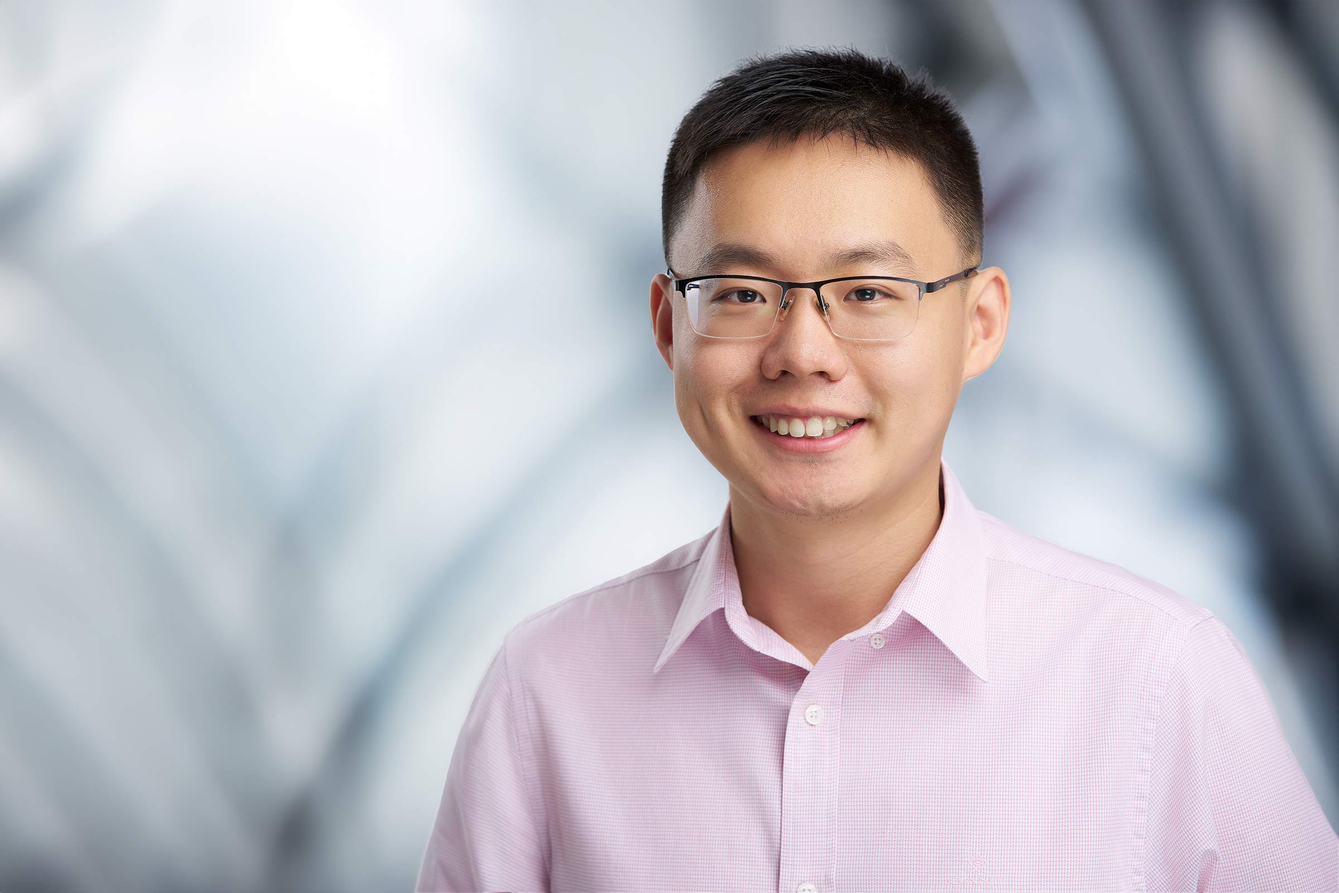
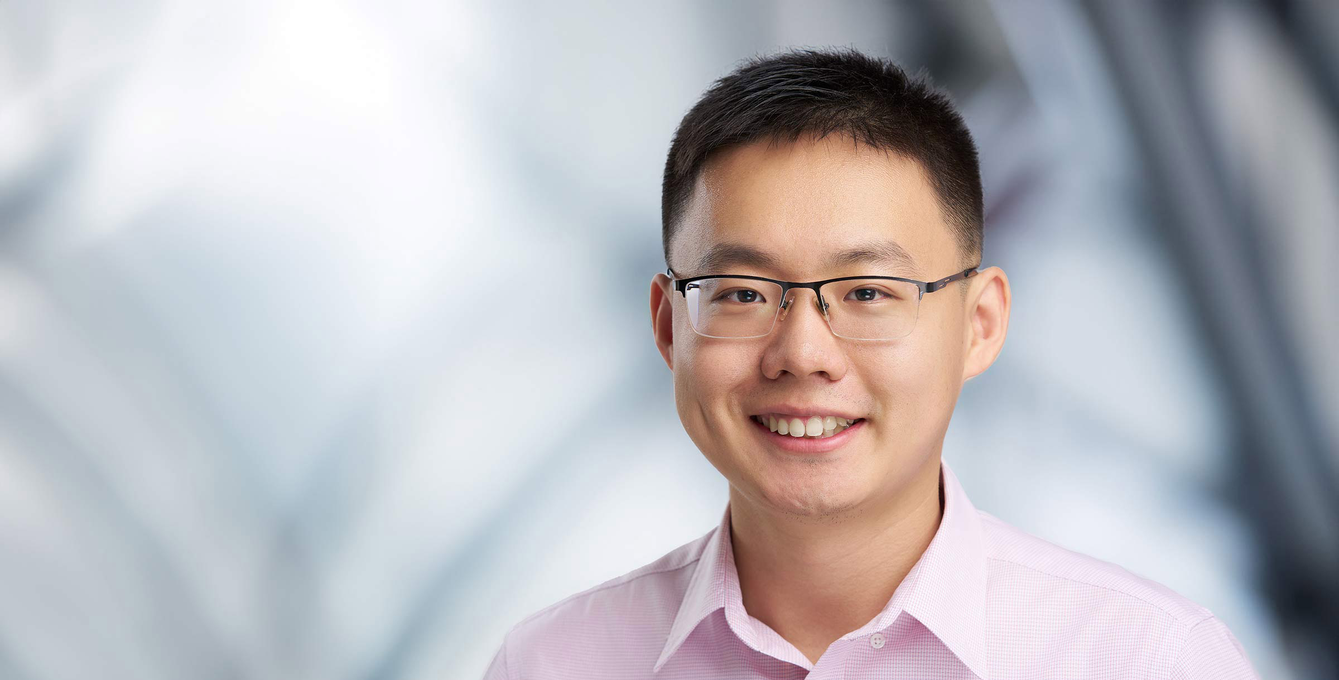
added images to news page. Corrected images proportions.

diff --git a/src/assets/articlesHighlights.js b/src/assets/articlesHighlights.js
@@ -38,8 +38,8 @@ export const articlesHighlights = [
     bubbleTextOne: 'Elaheh',
     bubbleTextTwo: 'Ahmadi',
     bubbleTextThree: '',
-    articleHeadlineOne:'NEW FACULTY',
-    articleHeadlineTwo:'Elaheh Ahmadi\'s Solutions on Ultrawide Bandgap Materials and Devices',
+    articleHeadlineOne:'NEW FACULTY: Associate Professor Elaheh Ahmadi',
+    articleHeadlineTwo:'Solutions on Ultrawide Bandgap Materials and Devices',
     articleHeadlineThree: '',
     articleCallout1: '',
     articleCallout2: '',
@@ -64,14 +64,14 @@ export const articlesHighlights = [
     articleCaption1: 'Elaheh Ahmadi’s research GaN-Ga2O3 bonded-interface. SEM images of GaN and AlGaN nanowires.',
     articleCaption2: '',
     articleCaption3: '',
-    textCopy: '    <p style="text-indent:0"><span class="first-letter">I</span>=n the era of internet of things, and autonomous electric cars, highly efficient, reliable, low latency communication has become more important than ever. At the same time, climate change, which is in part due to technological advances, is an existential threat to humanity which calls for efficient, low-waste electronics and renewable energies. The goal of my research group at the University of California Los Angeles is to contribute to finding solutions to these challenges by working on (ultra)wide bandgap materials and devices.<p></p>Our group conducts research at the intersections of traditional research areas; or in the language of a materials scientist at “the grain boundaries”. In a vertically integrated manner, we do everything from structural, optical, and electrical characterization of materials epitaxially grown in our laboratory as well as fabrication and testing of devices. We do collaborate with groups in different disciplines, including Materials science, applied physics, circuits and systems.<p></p>Ahmadi received her B.S. and M.S. degrees, both from Sharif University of Technology in Tehran, Iran, in 2008 and 2010 respectively. She then joined UCSB in 2010 to pursue her PhD, focusing on epitaxial growth and characterization of GaN-based electronic devices. In 2015, she commenced her postdoctoral research, specializing in epitaxial growth and characterization of Ga2O3 devices. In July 2023, she joined the Department of Electrical and Computer Engineering at the UCLA as an Associate Professor. Prior to this, she served as an Assistant Professor at the University of Michigan, where she established and currently leads the Wide Bandgap Materials and Electronics (WBME) lab. Ahmadi has been honored with several awards, including the AFOSR YIP, ONR YIP, NSF CAREER, and DARPA Young Faculty awards, as well as the UM EECS department Outstanding Achievement Award, and the ISCS Young Scientist Award.</p>'
+    textCopy: '    <p style="text-indent:0"><span class="first-letter">I</span>n the era of internet of things, and autonomous electric cars, highly efficient, reliable, low latency communication has become more important than ever. At the same time, climate change, which is in part due to technological advances, is an existential threat to humanity which calls for efficient, low-waste electronics and renewable energies. The goal of my research group at the University of California Los Angeles is to contribute to finding solutions to these challenges by working on (ultra)wide bandgap materials and devices.<p></p>Our group conducts research at the intersections of traditional research areas; or in the language of a materials scientist at “the grain boundaries”. In a vertically integrated manner, we do everything from structural, optical, and electrical characterization of materials epitaxially grown in our laboratory as well as fabrication and testing of devices. We do collaborate with groups in different disciplines, including Materials science, applied physics, circuits and systems.<p></p>Ahmadi received her B.S. and M.S. degrees, both from Sharif University of Technology in Tehran, Iran, in 2008 and 2010 respectively. She then joined UCSB in 2010 to pursue her PhD, focusing on epitaxial growth and characterization of GaN-based electronic devices. In 2015, she commenced her postdoctoral research, specializing in epitaxial growth and characterization of Ga2O3 devices. In July 2023, she joined the Department of Electrical and Computer Engineering at the UCLA as an Associate Professor. Prior to this, she served as an Assistant Professor at the University of Michigan, where she established and currently leads the Wide Bandgap Materials and Electronics (WBME) lab. Ahmadi has been honored with several awards, including the AFOSR YIP, ONR YIP, NSF CAREER, and DARPA Young Faculty awards, as well as the UM EECS department Outstanding Achievement Award, and the ISCS Young Scientist Award.</p>'
   },
   {
     articleId: 'ianoroberts',
     bubbleTextOne: 'Ian ',
     bubbleTextTwo: 'Roberts',
     bubbleTextThree: '',
-    articleHeadlineOne:'NEW FACULTY',
+    articleHeadlineOne:'NEW FACULTY: Assistant Professor Ian Roberts',
     articleHeadlineTwo:'Underlying Technologies and Techniques for Future Wireless Networks',
     articleHeadlineThree: '',
     articleCallout1: '',
@@ -92,7 +92,7 @@ export const articlesHighlights = [
     articleImageAltTextMain: '',
     articleImageProf: '/2022-2023/img/ian-roberts-portrait.jpg',
     articleImageAltTextProf: 'UCLA ECE Faculty Ian Roberts portrait',
-    articleImageCred: '',
+    articleImageCred: 'photo by Nick Fancher',
     articleAuthor: '',
     articleCaption1: '',
     articleCaption2: '',
@@ -104,7 +104,7 @@ export const articlesHighlights = [
     bubbleTextOne: 'Xiaofan',
     bubbleTextTwo: 'Cui',
     bubbleTextThree: '',
-    articleHeadlineOne:'NEW FACULTY',
+    articleHeadlineOne:'NEW FACULTY: Assistant Professor Xiofan Cui',
     articleHeadlineTwo:'Bridging Energy Systems by Innovating Modeling Frameworks',
     articleHeadlineThree: '',
     articleCallout1: '',
@@ -121,13 +121,13 @@ export const articlesHighlights = [
     articleImageAltText4: '',
     articleImageAltText5: '',
     articleImageAltText6: '',
-    articleImageMain: '../../src/assets/images/hex-computer-grid-steve-johnson.jpg',
+    articleImageMain: '/2022-2023/img/hex-computer-grid-steve-johnson.jpg',
     articleImageAltTextMain: '',
     articleImageProf: '/2022-2023/img/Xiaofan-Cui-portrait.jpg',
-    articleImageAltTextProf: 'UCLA ECE Faculty Ian Roberts portrait',
-    articleImageCred: 'photo by Steve Johnson',
+    articleImageAltTextProf: 'UCLA ECE Faculty Xiofan Cui portrait',
+    articleImageCred: 'llustration by Steve Johnson',
     articleAuthor: '',
-    articleCaption1: '',
+    articleCaption1: 'ECE Assistant Professor Xiofan Cui.',
     articleCaption2: '',
     articleCaption3: '',
     textCopy: '<p style="text-indent:0"><span class="first-letter">M</span>odern power systems are being transformed by clean-energy technologies. In this ongoing energy revolution, power electronics are evolving from being edge devices to becoming the “centrex” of the energy internet. Due to the high controllability, speed, and power density of power electronics, future energy systems can be more heterogeneous in form, more agile in actuation, larger in scale, and more distributed in function. The ultimate energy system should deliver the right energy to the right place at the right time. However, the cost and speed limitations of power converters restrict the flexibility and bandwidth of energy transfer. Moreover, most of the current models, controls, and designs do not align with each other. Models are either too simple to capture the underlying physics or too complicated to be utilized for design, while rigorous control laws result in overly conservative control performance. Much of the practical hardware is rule-based and semi-empirical.</p><p>   My research group focuses on the algorithm and hardware that transform power-electronics-based energy systems, from those as small as power conversion circuits to those as large as interconnected microgrids, from those as fast as electromagnetic transients to those as slow as electrochemical dynamics. Currently, we are working on projects including high-speed high-frequency power converters for information & data systems, power management of second-life battery energy storage systems, nonlinear control and transient stability of microgrids, and distributed energy generation & integration. Our ultimate research goal is to bridge the fundamental theory and emerging applications of power-electronics-dominated energy systems by innovating control-aware modeling frameworks, high-performance hardware validations, provably-correct control policies, and physics-informed learning schemes. </p><p>   Xiaofan Cui is an Assistant Professor of Electrical and Computer Engineering at the University of California, Los Angeles. He was a Postdoctoral Fellow at Stanford University, and prior to that, he served as a senior power electronics engineer at Tesla Inc. Dr. Cui earned a B.E. degree in Electrical Engineering and a B.S. degree in Economics from Tsinghua University, Beijing, China, in 2016. He obtained an M.S. degree in Mathematics and a Ph.D. degree in Electrical and Computer Engineering from the University of Michigan, Ann Arbor, MI, USA, in 2021 and 2022, respectively. In 2021, he was a Research Intern with the National Renewable Energy Laboratory (NREL). His research interests encompass the modeling, control, and design of high-performance power electronics for energy systems.  Professor Cui research has received recognition from universities, governments, and industries. His work has been published in top-tier journals and conferences in power electronics, batteries, power systems, and control. He also holds several service positions in the IEEE Power Electronics Society, Industry Applications Society, and American Society of Mechanical Engineers. </p>'
@@ -135,15 +135,15 @@ export const articlesHighlights = [
   {
     articleId: 'frankchangmedal',
     bubbleTextOne: 'M.C. Frank',
-    bubbleTextTwo: 'Chang ',
+    bubbleTextTwo: 'Chang',
     bubbleTextThree: '',
-    articleHeadlineOne:'M.C. Frank Chang',
-    articleHeadlineTwo:'Awarded James Clerk Maxwell Medal',
-    articleHeadlineThree: '',
+    articleHeadlineOne:'IEEE Recognitions',
+    articleHeadlineTwo:'M.C. Frank Chang Awarded James Clerk Maxwell Medal',
+    articleHeadlineThree: 'Ingrid Verbauwhede received IEEE Donald O. Pederson Award in Solid-State Circuits',
     articleCallout1: '',
     articleCallout2: '',
-    articleImage1: 'https://source.unsplash.com/kBUfvkbFIoE/1500x1500',
-    articleImage2:'https://source.unsplash.com/2r5adxul49E/1500x1500',
+    articleImage1: '/2022-2023/img/IEEE-RSE-James-Clerk-Maxwell-Medal.jpg',
+    articleImage2:'/2022-2023/img/IEEE_Donald_O._Pederson_Award_in_Solid-State_Circuits.jpg',
     articleImage3: '',
     articleImage4:'',
     articleImage5:'',
@@ -154,29 +154,29 @@ export const articlesHighlights = [
     articleImageAltText4: '',
     articleImageAltText5: '',
     articleImageAltText6: '',
-    articleImageMain: '../../src/assets/images/semiconductors.jpg',
+    articleImageMain: '/2022-2023/img/Maxwell-statue.jpg',
     articleImageAltTextMain: '',
-    articleImageProf: 'https://source.unsplash.com/67L18R4tW_w/1500x1500',
+    articleImageProf: '/img/Frank_Chang.jpg',
     articleImageAltTextProf: '',
     articleImageCred: '',
     articleAuthor: '',
-    articleCaption1: 'Awarded James Clerk Maxwell Medal',
-    articleCaption2: '',
+    articleCaption1: 'M.C. Frank Chang Awarded James Clerk Maxwell Medal',
+    articleCaption2: 'Adjunct Professor Ingrid Verbauwhede awarded IEEE Donald O. Pederson Award in Solid-State Circuits',
     articleCaption3: '',
-    textCopy: '  <p style="text-indent:0"><span class="first-letter">L</span>M.C. Frank Chang, a distinguished professor and the Wintek Chair in Electrical Engineering at the UCLA Samueli School of Engineering, has been awarded the 2023 James Clerk Maxwell Medal by the Institute of Electrical and Electronics Engineers and the Royal Society of Edinburgh (IEEE/RSE). The international award, which was announced last week, recognizes Chang’s “contributions to heterojunction device technology and CMOS [complementary metal–oxide–semiconductor] System-on-Chip realizations with unprecedented reconfigurability and bandwidth.” </p><p>Since joining UCLA in 1997, Chang has led the High Speed Electronics Laboratory with research focused on high-speed semiconductor devices and integrated circuits for digital, analog, microwave, millimeter-wave and terahertz system-on-chip applications. He has pioneered new methodologies to design reliable heterojunction devices, including digital-controlled artificial dielectric transmissions for reconfigurable software-defined, multi-band/mode radios and radars for extended operation bands and resolutions. Chang’s work has also had a major impact on mobile phones, with the majority of smartphones using the heterojunction bipolar transistor technology he developed to meet the required power and efficiency specifications.</p><p>Earlier this year, Chang was selected as a member of the European Academy of Sciences and Arts in the category of technical and environmental sciences. He is also a member of the National Academy of Engineering, Academia Sinica and the National Academy of Inventors. In 2017, the Institution of Engineering and Technology presented Chang with the J.J. Thomson Medal for Electronics.</p><p>Chang served as chair of the Electrical and Computer Engineering Department from 2010 to 2015 before taking a leave to head the National Chiao Tung University in Taiwan as president from 2015 to 2019. Prior to joining UCLA, he worked at the Rockwell International Science Center as the assistant director and department manager of the High Speed Electronics Laboratory. It was at Rockwell where he pioneered the class of heterojunction bipolar transistors and field effect transistors for smartphone front-end module implementations.</p><p>In addition to the James Clerk Maxwell Medal, the 2023 IEEE recognition also included the Donald O. Pederson Award in Solid-State Circuits that went to Ingrid Verbauwhede, an adjunct professor in electrical and computer engineering at UCLA Samueli. Verbauwhede was selected for her “pioneering contributions to energy-efficient and high-performance secure integrated circuits and systems.” She is currently a professor at Katholieke Universiteit Leuven in Belgium. </p> '
+    textCopy: '  <p style="text-indent:0"><span class="first-letter">L</span>M.C. Frank Chang,  distinguished professor and the Wintek Chair in Electrical Engineering, has been awarded the 2023 James Clerk Maxwell Medal by the Institute of Electrical and Electronics Engineers and the Royal Society of Edinburgh (IEEE/RSE). The international award, which was announced last week, recognizes Chang’s “contributions to heterojunction device technology and CMOS [complementary metal–oxide–semiconductor] System-on-Chip realizations with unprecedented reconfigurability and bandwidth.” </p><p>Since joining UCLA in 1997, Chang has led the High Speed Electronics Laboratory with research focused on high-speed semiconductor devices and integrated circuits for digital, analog, microwave, millimeter-wave and terahertz system-on-chip applications. He has pioneered new methodologies to design reliable heterojunction devices, including digital-controlled artificial dielectric transmissions for reconfigurable software-defined, multi-band/mode radios and radars for extended operation bands and resolutions. Chang’s work has also had a major impact on mobile phones, with the majority of smartphones using the heterojunction bipolar transistor technology he developed to meet the required power and efficiency specifications.</p><p>Earlier this year, Chang was selected as a member of the European Academy of Sciences and Arts in the category of technical and environmental sciences. He is also a member of the National Academy of Engineering, Academia Sinica and the National Academy of Inventors. In 2017, the Institution of Engineering and Technology presented Chang with the J.J. Thomson Medal for Electronics.</p><p>Chang served as chair of the Electrical and Computer Engineering Department from 2010 to 2015 before taking a leave to head the National Chiao Tung University in Taiwan as president from 2015 to 2019. Prior to joining UCLA, he worked at the Rockwell International Science Center as the assistant director and department manager of the High Speed Electronics Laboratory. It was at Rockwell where he pioneered the class of heterojunction bipolar transistors and field effect transistors for smartphone front-end module implementations.</p><p>In addition to the James Clerk Maxwell Medal, the 2023 IEEE recognition also included the Donald O. Pederson Award in Solid-State Circuits that went to Ingrid Verbauwhede, adjunct professor in electrical and computer engineering at UCLA Samueli. Verbauwhede was selected for her “pioneering contributions to energy-efficient and high-performance secure integrated circuits and systems.” She is currently a professor at Katholieke Universiteit Leuven in Belgium. </p> '
   },
   {
     articleId: 'kangwanginventors',
     bubbleTextOne: 'Kang',
     bubbleTextTwo: 'Wang',
     bubbleTextThree: '',
-    articleHeadlineOne:'Kang Wang',
-    articleHeadlineTwo:'Named National Academy of Inventors Fellow',
+    articleHeadlineOne:'Distinguished Professor ',
+    articleHeadlineTwo:'Kang Wang Named National Academy of Inventors Fellow',
     articleHeadlineThree: '',
     articleCallout1: '',
     articleCallout2: '',
     articleImage1: '/2022-2023/img/kang-wang-nai.png',
-    articleImage2:'https://source.unsplash.com/2r5adxul49E/1500x1500',
+    articleImage2:'/2022-2023/img/CQSE-DRL-logos.png',
     articleImage3: '',
     articleImage4:'',
     articleImage5:'',
@@ -187,16 +187,16 @@ export const articlesHighlights = [
     articleImageAltText4: '',
     articleImageAltText5: '',
     articleImageAltText6: '',
-    articleImageMain: 'https://source.unsplash.com/Kj2SaNHG-hg/1500x1500',
+    articleImageMain: '/2022-2023/img/microprocessor-zhvgeirSXgU.jpg',
     articleImageAltTextMain: '',
-    articleImageProf: 'kang-wang-nai.png',
+    articleImageProf: '/2022-2023/img/wang.jpg',
     articleImageAltTextProf: '',
-    articleImageCred: '',
-    articleAuthor: '',
-    articleCaption1: 'National Academy of Inventors elected Professor Kang Wang',
+    articleImageCred: 'photo by Getty Images.  ',
+    articleAuthor: ' Riley de Jong contributed to this story.',
+    articleCaption1: 'National Academy of Inventors elected Professor Kang Wang. He leads the Device Research Laboratory and co-directs the Center of Quantum Science and Engineering at UCLA',
     articleCaption2: '',
     articleCaption3: '',
-    textCopy: '  <p style="text-indent:0"><span class="first-letter">L</span>Kang Wang, a distinguished professor of electrical and computer engineering at the UCLA Samueli School of Engineering, has been named a National Academy of Inventors (NAI) fellow, the highest professional distinction awarded to academic inventors.</p> <p> The academy recognizes global researchers who have “demonstrated a spirit of innovation in creating or facilitating outstanding inventions that have made a tangible impact on quality of life, economic development and the welfare of society.” Wang has been selected for the dozens of inventions he has patented over the course of his career.</p> <p> A UCLA faculty member since 1979, Wang holds the Raytheon Chair in Electrical Engineering, leads the Device Research Laboratory and co-directs the Center of Quantum Science and Engineering. His primary research focuses on quantum matters, information and technologies, semiconductors, and nanoelectronics and spintronics. He also holds faculty appointments in materials science and engineering, as well as physics and astronomy.</p> <p>  Wang has received many international accolades for his research, including the 2018 Magnetism Award and Néel Medal from the International Union of Pure and Applied Physics, and the 2017 J.J. Ebers Award from the Institute of Electrical and Electronics Engineering (IEEE) Electron Devices Society. He is a fellow of the American Physical Society and IEEE, a Guggenheim Fellow and a member of Academia Sinica in Taiwan.</p> <p> The National Academy of Inventors includes fellows from more than 250 academic institutions around the world, all of whom have earned their fellowships through years of dedication to their research. The 2022 class of 169 new fellows from 110 research universities and governmental and nonprofit research institutes worldwide will be inducted June 27 at the 12th annual meeting of the National Academy of Inventors in Washington, D.C.</p> <p>   Riley de Jong contributed to this story.  </p> '
+    textCopy: '  <p style="text-indent:0"><span class="first-letter">D</span>istinguisehd Professort Kang Wang has been named a National Academy of Inventors (NAI) fellow, the highest professional distinction awarded to academic inventors. The academy recognizes global researchers who have “demonstrated a spirit of innovation in creating or facilitating outstanding inventions that have made a tangible impact on quality of life, economic development and the welfare of society.” Wang has been selected for the dozens of inventions he has patented over the course of his career.</p> <p> A UCLA faculty member since 1979, professor Wang holds the Raytheon Chair in Electrical Engineering, leads the Device Research Laboratory and co-directs the Center of Quantum Science and Engineering. His primary research focuses on quantum matters, information and technologies, semiconductors, and nanoelectronics and spintronics. He also holds faculty appointments in materials science and engineering, as well as physics and astronomy. Professor Kang Wang has received many international accolades for his research, including the 2018 Magnetism Award and Néel Medal from the International Union of Pure and Applied Physics, and the 2017 J.J. Ebers Award from the Institute of Electrical and Electronics Engineering (IEEE) Electron Devices Society. He is a fellow of the American Physical Society and IEEE, a Guggenheim Fellow and a member of Academia Sinica in Taiwan.</p> <p> The National Academy of Inventors includes fellows from more than 250 academic institutions around the world, all of whom have earned their fellowships through years of dedication to their research. The 2022 class of 169 new fellows from 110 research universities and governmental and nonprofit research institutes worldwide will be inducted June 27 at the 12th annual meeting of the National Academy of Inventors in Washington, D.C.</p> '
   },
   {
     articleId: 'kadambiaward',
@@ -205,12 +205,12 @@ export const articlesHighlights = [
     bubbleTextThree: '',
     articleHeadlineOne:'Achuta Kadambi recognized for',
     articleHeadlineTwo:'Promoting Inclusivity in Engineering',
-    articleHeadlineThree: 'Remote Heart Rate Sensors Can be Biased Against Darker Skin.',
+    articleHeadlineThree: 'Remote Heart Rate Sensors Can be Biased Against Darker Skin',
     articleCallout1: '',
     articleCallout2: '',
     articleImage1: '/2022-2023/img/kadambi-young-professional-award.jpg',
-    articleImage2:'/2022-2023/img/kadambi-research-team.png',
-    articleImage3: '/2022-2023/img/kadambi-Heart-Rate-Sensor.png',
+    articleImage2:'/2022-2023/img/kadambi-research-team.jpg',
+    articleImage3: '/2022-2023/img/kadambi-Heart-Rate-Sensor.jpg',
     articleImage4:'/2022-2023/img/Kadambi_Science.jpg',
     articleImage5:'',
     articleImage6:'',
@@ -224,11 +224,11 @@ export const articlesHighlights = [
     articleImageAltTextMain: '',
     articleImageProf: '/2022-2023/img/Achuta_Kadambi.jpg',
     articleImageAltTextProf: 'Achuta Kadambi portrait',
-    articleImageCred: 'Visual Machines Group/UCLA',
+    articleImageCred: 'Photos: Getty Visual Machines Group/UCLA',
     articleAuthor: 'Dannela Lagrimas contributed to this story.',
     articleCaption1: 'Achuta Kadambi received the IEEE Award for promoting inclusivity in engineering. UCLA researchers Pradyumna Chari, Alexander “Sasha” Vilesov, Adnan Armouti, Dr. Laleh Jalilian and Achuta Kadambi with the new device',
     articleCaption2: 'The mobile multimodal sensing platform uses camera and radar to remotely collect plethysmography data',
     articleCaption3: '',
-    textCopy: '<p style="text-indent:0"><span class="first-letter">A</span>chuta Kadambi has received the Outstanding Young Professional Award from the honor society Eta Kappa Nu of the Institute of Electrical and Electronics Engineers (IEEE). Established in 1936, the award recognizes outstanding engineers who are under 35 years of age with exceptional career accomplishments. Kadambi, who also has a faculty appointment in computer science, was selected for his “contributions to creative and inclusive teaching and mentoring in electrical engineering and bioengineering.” <p/><p> Kadambi leads the Visual Machines Group at UCLA, which focuses on building computational imaging systems with applications in robotics and health care. Through his research, Kadambi aims to address implicit biases in medical and other devices and to explore pragmatic solutions. Separate from his work at UCLA, Kadambi also co-founded Akasha Imaging, a commercial imaging technology company. <p/><p> “The most enjoyable part of research is the students I get to work with. Since I started as a faculty, PhD students Pradyumna Chari has been a sounding board for these problems, and has been joined by PhD students Sasha Vilesov and Ellin Zhao. This project is also not possible without the rigorous clinical collaboration of UCLA medical school faculty Dr. Laleh Jalilian,” said Professor Kadambi. <p/><p> When asked about the direction of the research in the future, he stated: “We are placing a bet that 21st century society demands that life-saving medical devices work for all humans, not just a subset. If this bet is correct, I envision research like ours will be a critical part of future products that are deployed in hospitals.”<p/><p>  Remote Heart Rate Sensors Can be Biased Against Darker Skin. A UCLA Team Offers a Solution. <p/><p> As telemedicine has grown more popular, so have devices that allow people to measure their vital signs from home and transmit the results by computer to their doctors. Yet in many cases, obtaining accurate remote readings for people of color has proved a persistent challenge. Take remote heart rate measurements, for example, which rely on a camera sensing subtle changes in the color of a patient’s face caused by fluctuations in the flow of blood beneath their skin. These devices, part of an emerging class of remote technologies, consistently have trouble reading color changes in people with darker skin tones.<p/><p>Kadambi and his team have now developed a remote diagnostic technique that overcomes this implicit bias against darker skin while also making heart rate readings more accurate for patients across the full range of skin tones. Their secret? Combining the light-based measurements of a camera with radio-based measurements from radar.<p/><p>The researchers presented their findings, recently published in the journal ACM Transactions on Graphics, at the SIGGRAPH 2022 conference in Vancouver, British Columbia. The conference, held both virtually and in-person, is organized annually by members of the Association for Computing Machinery.<p/><p>The advance could lead to new classes of high-performing medical devices and remote technologies that are more accurate and equitable, the researchers said, allowing doctors and health care systems to remotely monitor patients with confidence, both in clinical settings and from patients’ homes. “In the larger picture, this work shows that practical and innovative engineering solutions can address persistent biases in medical devices,” said Kadambi, who is also a member of the California NanoSystems Institute at UCLA. “But that first requires an acknowledgement that such bias means the current best technology may not be the best for everyone. Through thoughtful design, we can find equitable solutions that perform as well or better.”<p/><p>The UCLA team’s fusion of two techniques shows a promising path toward achieving those goals, said Kadambi, who is the principal investigator on the research. As head of the Visual Machines Group at UCLA, he has written about different types of biases in medical devices and how to fix them.<p/><p>In developing their new technology, the researchers first showed that the remote sensing device itself was the source of the bias, demonstrating in their paper that higher levels of melanin, natural pigments in the skin, interfere with what is known as the photoplethysmography, or PPG, signal that is used in current camera-based remote heart rate measurements.<p/><p>PPG signaling is also used to measure heart rate through devices like pulse oximeters, which clamp onto a patient’s finger, as well as some wearable commercial products and smartwatch-powered apps. These devices emit light onto the skin and sense changes in the amount of light reflected back by circulating blood just below the surface. That reflected light produces the PPG signal, a measure of a patient’s heart rate.<p/><p>Previous efforts to address skin tone biases in such technologies have generally looked to correct them through additional programming or by expanding baseline standards using a more diverse range of skin tones. But neither of these approaches target the real issue, Kadambi said, which is the physics of the device itself.<p/><p>The UCLA researchers instead turned to another technology that can give an estimate of heart rate: radar. At 77 gigahertz, a radar can sense subtle changes in the displacement of the chest from heartbeats. And while this method overcomes the issue of skin tone bias, it is less reliable than PPG signaling. However, they found success by combining these two different modes of sensing — camera and radar — and refining them through machine learning to work in concert.<p/><p>  A senior member of the National Academy of Inventors, professor Kadambi has also been honored with Young Faculty Award from the Defense Advanced Research Projects Agency (DARPA),  National Science Foundation (NSF) CAREER Award, an Army Research Office Young Investigator Award and a Google Faculty award. In 2019, he was named to Forbes’ “30 Under 30” list for science. The IEEE is the world’s largest technical professional organization with more than 423,000 members worldwide.  </p>'
+    textCopy: '<p style="text-indent:0"><span class="first-letter">A</span>chuta Kadambi has received the Outstanding Young Professional Award from the honor society Eta Kappa Nu of the Institute of Electrical and Electronics Engineers (IEEE). Established in 1936, the award recognizes outstanding engineers who are under 35 years of age with exceptional career accomplishments. Kadambi, who also has a faculty appointment in computer science, was selected for his “contributions to creative and inclusive teaching and mentoring in electrical engineering and bioengineering.” <p/><p> Kadambi leads the Visual Machines Group at UCLA, which focuses on building computational imaging systems with applications in robotics and health care. Through his research, Kadambi aims to address implicit biases in medical and other devices and to explore pragmatic solutions. Separate from his work at UCLA, Kadambi also co-founded Akasha Imaging, a commercial imaging technology company. <p/><p> “The most enjoyable part of research is the students I get to work with. Since I started as a faculty, PhD students Pradyumna Chari has been a sounding board for these problems, and has been joined by PhD students Sasha Vilesov and Ellin Zhao. This project is also not possible without the rigorous clinical collaboration of UCLA medical school faculty Dr. Laleh Jalilian,” said Professor Kadambi.  “We are placing a bet that 21st century society demands that life-saving medical devices work for all humans, not just a subset. If this bet is correct, I envision research like ours will be a critical part of future products that are deployed in hospitals.”<p/><p>  Remote Heart Rate Sensors Can be Biased Against Darker Skin. Professor Kadambi\'s  Team Offers a Solution. <p/><p> As telemedicine has grown more popular, so have devices that allow people to measure their vital signs from home and transmit the results by computer to their doctors. Yet in many cases, obtaining accurate remote readings for people of color has proved a persistent challenge. Take remote heart rate measurements, for example, which rely on a camera sensing subtle changes in the color of a patient’s face caused by fluctuations in the flow of blood beneath their skin. These devices, part of an emerging class of remote technologies, consistently have trouble reading color changes in people with darker skin tones.<p/><p>Kadambi and his team have now developed a remote diagnostic technique that overcomes this implicit bias against darker skin while also making heart rate readings more accurate for patients across the full range of skin tones. Their secret? Combining the light-based measurements of a camera with radio-based measurements from radar. The researchers presented their findings, recently published in the journal ACM Transactions on Graphics, at the SIGGRAPH 2022 conference in Vancouver, British Columbia. The conference, held both virtually and in-person, is organized annually by members of the Association for Computing Machinery.<p/><p>The advance could lead to new classes of high-performing medical devices and remote technologies that are more accurate and equitable, the researchers said, allowing doctors and health care systems to remotely monitor patients with confidence, both in clinical settings and from patients’ homes. “In the larger picture, this work shows that practical and innovative engineering solutions can address persistent biases in medical devices,” said Kadambi, who is also a member of the California NanoSystems Institute at UCLA. “But that first requires an acknowledgement that such bias means the current best technology may not be the best for everyone. Through thoughtful design, we can find equitable solutions that perform as well or better.”<p/><p>The UCLA team’s fusion of two techniques shows a promising path toward achieving those goals, said Kadambi, who is the principal investigator on the research. As head of the Visual Machines Group at UCLA, he has written about different types of biases in medical devices and how to fix them. In developing their new technology, the researchers first showed that the remote sensing device itself was the source of the bias, demonstrating in their paper that higher levels of melanin, natural pigments in the skin, interfere with what is known as the photoplethysmography, or PPG, signal that is used in current camera-based remote heart rate measurements. PPG signaling is also used to measure heart rate through devices like pulse oximeters, which clamp onto a patient’s finger, as well as some wearable commercial products and smartwatch-powered apps. These devices emit light onto the skin and sense changes in the amount of light reflected back by circulating blood just below the surface. That reflected light produces the PPG signal, a measure of a patient’s heart rate.<p/><p>Previous efforts to address skin tone biases in such technologies have generally looked to correct them through additional programming or by expanding baseline standards using a more diverse range of skin tones. But neither of these approaches target the real issue, Kadambi said, which is the physics of the device itself. The UCLA researchers instead turned to another technology that can give an estimate of heart rate: radar. At 77 gigahertz, a radar can sense subtle changes in the displacement of the chest from heartbeats. And while this method overcomes the issue of skin tone bias, it is less reliable than PPG signaling. However, they found success by combining these two different modes of sensing — camera and radar — and refining them through machine learning to work in concert.<p/><p>  A senior member of the National Academy of Inventors, professor Kadambi has also been honored with Young Faculty Award from the Defense Advanced Research Projects Agency (DARPA),  National Science Foundation (NSF) CAREER Award, an Army Research Office Young Investigator Award and a Google Faculty award. In 2019, he was named to Forbes’ “30 Under 30” list for science. The IEEE is the world’s largest technical professional organization with more than 423,000 members worldwide.  </p>'
   }
 ]

diff --git a/src/scss/home.scss b/src/scss/home.scss
@@ -179,41 +179,42 @@
   background-size: cover;
   background-position: center center;
   overflow: hidden;
-  background-image: url("../../src/assets/images/flame-semiconductor.jpg");
-  // background-image: url("https://source.unsplash.com/WqhP-Oq2aVY/1500x1500");
+  background-image: url("../assets/images/flame-semiconductor.jpg");
+  // background-image: url("https://source.unsplash.com/WqhP-Oq2aVY/1500x1500"); //encounter glass wall
 }
 .ianroberts{
   background-size: cover;
   background-position: center center;
   overflow: hidden;
-  background-image: url("../../src/assets/images/wireless-network-nick-fancher.jpg");
-    // background-image: url("https://source.unsplash.com/CUY_YHhCFl4/1500x1500");
+  background-image: url("/assets/images/wireless-network-nick-fancher.jpg");
 }
 .xiaofancui{
   background-size: cover;
   background-position: center center;
   overflow: hidden;
-  background-image: url("../../src/assets/images/hex-computer-grid-steve-johnson.jpg");
+  background-image: url("/assets/images/hex-computer-grid-steve-johnson.jpg");
+
 }
 .frankchangmedal{
   background-size: cover;
   background-position: center center;
   overflow: hidden;
-  background-image: url("../../src/assets/images/semiconductors.jpg");
+  background-image: url("/assets/images/Maxwell-statue.jpg");
 }
 .kangwanginventors{
   background-size: cover;
   background-position: center center;
   overflow: hidden;
-  background-image: url("../../src/assets/images/jefferson-santos-laptop.jpg");
+  background-image: url("/assets/images/microprocessor-zhvgeirSXgU.jpg");
+  // background-image: url("https://source.unsplash.com/CUY_YHhCFl4/1500x1500");
+
 }
 .kadambiaward{
   object-fit: cover;
   background-size: cover;
   background-position: center center;
   overflow: hidden;
-  background-image: url("../../src/assets/images/dark-skin-doctor.jpg");
-    // background-image: url("https://source.unsplash.com/CUY_YHhCFl4/1500x1500");
+  background-image: url("/assets/images/dark-skin-doctor.jpg");
 }
 
 
